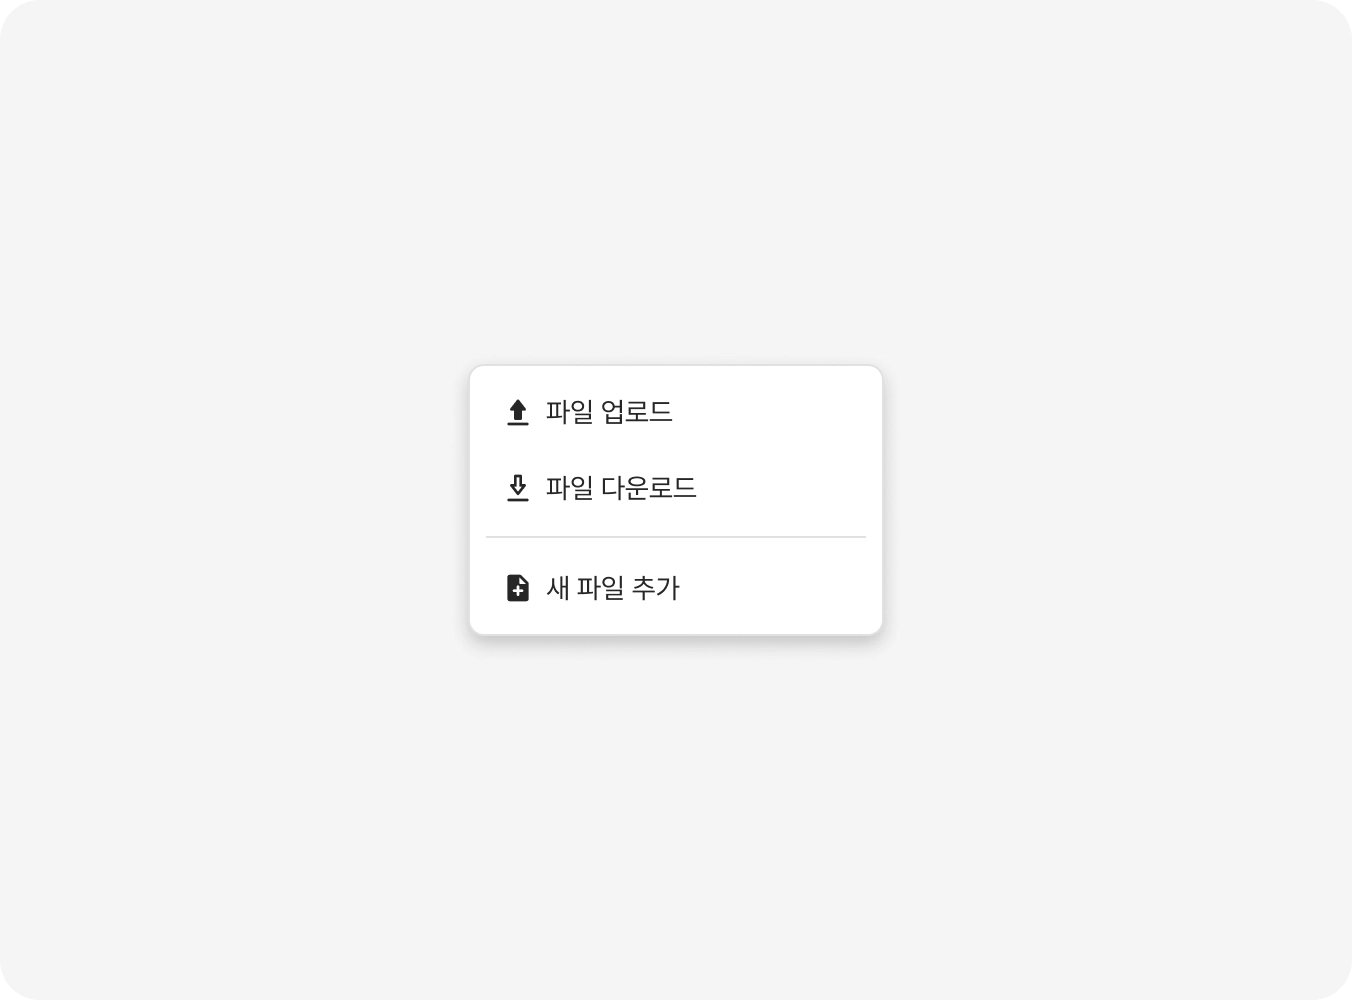
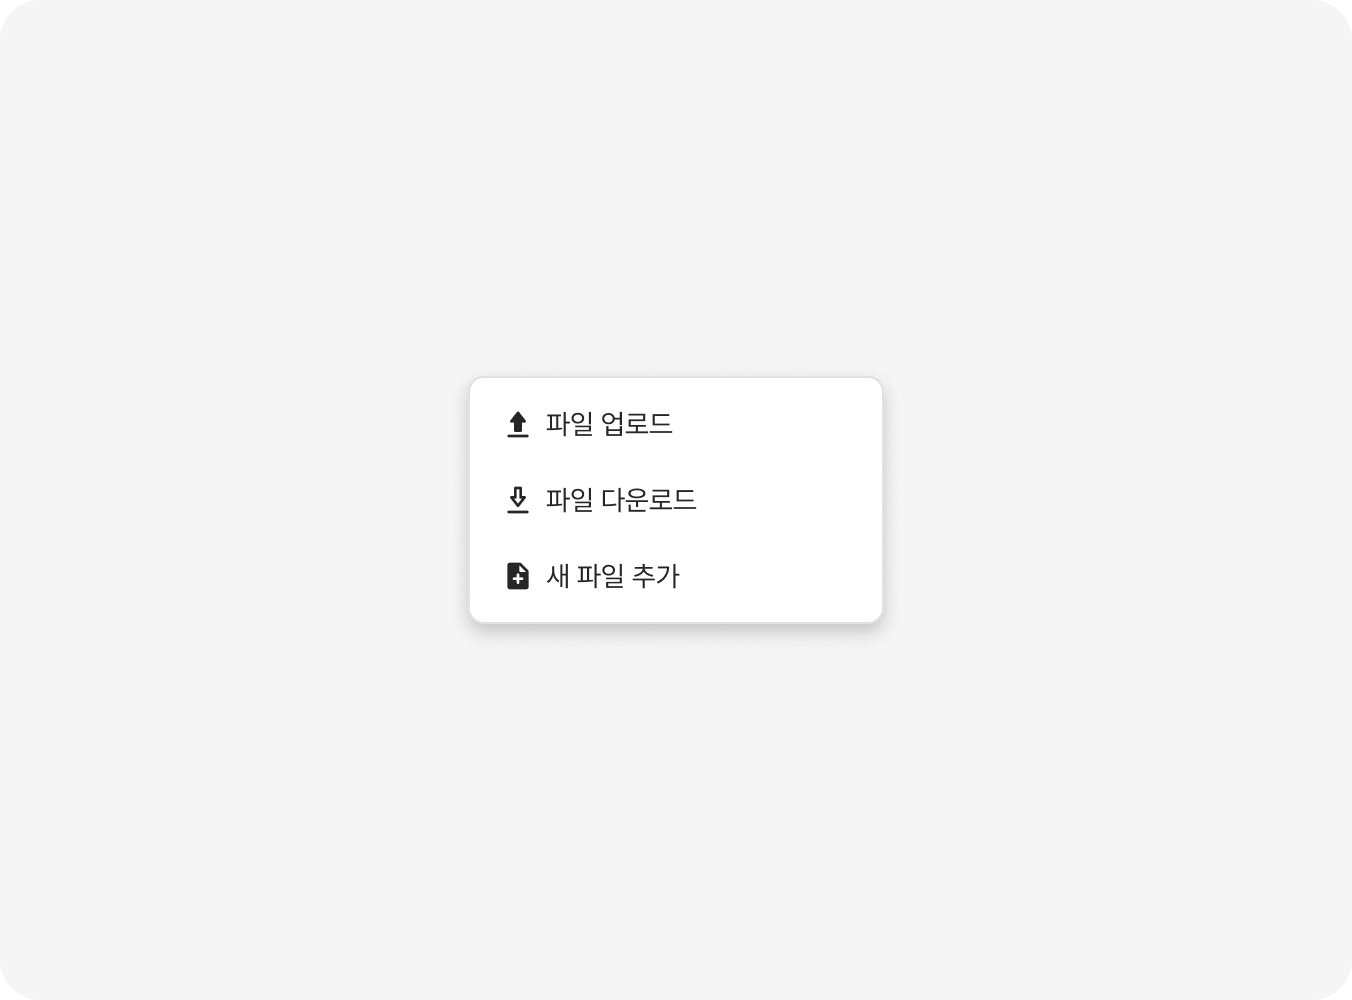
refactor(extract-composites): frontmatter, output path, demo refs (#809)

Changed region(s): [[0.3417, 0.558, 0.6524, 0.651], [0.3728, 0.465, 0.5281, 0.527], [0.3728, 0.372, 0.497, 0.434]]

diff --git a/scripts/extract-composites/src/extractor.ts b/scripts/extract-composites/src/extractor.ts
@@ -1,11 +1,14 @@
 import { kebabCase } from 'es-toolkit';
+import { join, relative } from 'node:path';
 
 import { extractPreview } from './code-connect.ts';
 import { FigmaClient } from './figma.ts';
 import { downloadWebpImages } from './images.ts';
 import {
+    HEADER_INSTANCE_NAME,
     SLOT_NAMES,
     TEXT_NAMES,
+    findComponentHeader,
     findExportFrame,
     findItems,
     findTextByName,
@@ -23,6 +26,7 @@ export interface ExtractOptions {
     contentFile: (slug: string) => string;
     publicDir: (slug: string) => string;
     componentDir: (slug: string) => string;
+    docsRoot: string;
     slugOverride?: string;
     clean: boolean;
     force: boolean;
@@ -35,6 +39,7 @@ export interface ExtractResult {
     mdxPath: string;
     publicDir: string;
     componentDir: string;
+    demoFiles: string[];
     warnings: string[];
 }
 
@@ -56,6 +61,12 @@ export async function extract(opts: ExtractOptions): Promise<ExtractResult> {
     const componentDir = opts.componentDir(slug);
     await prepareOutputs(contentFile, publicDir, opts.clean);
 
+    const { title: docTitle, description: docDescription } = resolveComponentMeta(
+        canvas,
+        canvasName,
+        warnings,
+    );
+
     const discovered = discoverSections(canvas, warnings, only);
 
     console.log(`발견된 섹션: ${discovered.length}개`);
@@ -63,6 +74,7 @@ export async function extract(opts: ExtractOptions): Promise<ExtractResult> {
 
     console.log('내용을 분석하고 있습니다...\n');
 
+    const demoFiles: string[] = [];
     const sections: Section[] = [];
     for (const { title, frame } of discovered) {
         const slugForSection = SECTION_SLUG[title];
@@ -97,14 +109,18 @@ export async function extract(opts: ExtractOptions): Promise<ExtractResult> {
                     if (rel) blocks.push({ kind: 'docsImage', webpRel: rel, alt: currentSubtitle });
                     else warnings.push(`sample export failed: ${targetNode.id} (${baseName})`);
                 } else if (child.kind === 'preview') {
+                    const absDemoFile = join(componentDir, 'demos', `${baseName}.tsx`);
+                    const demoRef = relative(opts.docsRoot, absDemoFile);
                     const result = await extractPreview({
                         fileKey: opts.fileKey,
                         previewSlot: child.node,
                         componentDir,
                         baseName,
+                        demoRef,
                         force: opts.force,
                         warnings,
                     });
+                    demoFiles.push(absDemoFile);
                     blocks.push({
                         kind: 'demo',
                         file: result.file,
@@ -142,7 +158,8 @@ export async function extract(opts: ExtractOptions): Promise<ExtractResult> {
 
     const mdx = renderMdx({
         slug,
-        name: canvasName,
+        title: docTitle,
+        description: docDescription,
         sections: sortedSections,
     });
     await writeComponentMdx(contentFile, mdx);
@@ -155,8 +172,29 @@ export async function extract(opts: ExtractOptions): Promise<ExtractResult> {
         mdxPath: contentFile,
         publicDir,
         componentDir,
+        demoFiles,
         warnings,
     };
+}
+
+function resolveComponentMeta(
+    canvas: FigmaNode,
+    canvasName: string,
+    warnings: string[],
+): { title: string; description: string } {
+    const header = findComponentHeader(canvas);
+    if (!header) {
+        warnings.push(
+            `${HEADER_INSTANCE_NAME} INSTANCE (type=component) missing — frontmatter falls back to canvas name`,
+        );
+        return { title: canvasName, description: '' };
+    }
+    const title = findTextByName(header, TEXT_NAMES.componentName) ?? canvasName;
+    const description = findTextByName(header, TEXT_NAMES.componentDescription) ?? '';
+    if (!description) {
+        warnings.push(`${HEADER_INSTANCE_NAME}: "${TEXT_NAMES.componentDescription}" TEXT missing`);
+    }
+    return { title, description };
 }
 
 interface BuildCaseBlockOptions {

diff --git a/scripts/extract-composites/src/code-connect.ts b/scripts/extract-composites/src/code-connect.ts
@@ -6,7 +6,7 @@ import { fetchCodeConnectSnippet } from './claude-cli.ts';
 import type { FigmaNode } from './types.ts';
 
 export interface PreviewResult {
-    file: string; // relative to the component docs dir (e.g. "demos/examples-01.tsx")
+    file: string; // docs-root-relative path for <Demo file=""> (e.g. "composites/(components)/alert-dialog/demos/examples-01.tsx")
     placeholder: boolean;
     nodeId: string;
 }
@@ -16,6 +16,7 @@ export interface ExtractPreviewOptions {
     previewSlot: FigmaNode;
     componentDir: string; // apps/website/content/docs/composites/(components)/<slug>
     baseName: string; // e.g. "examples-01"
+    demoRef: string; // what goes into `<Demo file="…" />` — docs-root-relative, with .tsx extension
     force: boolean;
     warnings: string[];
 }
@@ -35,19 +36,18 @@ export interface ExtractPreviewOptions {
  * and extracts the JSX inside the `<CodeConnectSnippet>` tag.
  */
 export async function extractPreview(opts: ExtractPreviewOptions): Promise<PreviewResult> {
-    const { fileKey, previewSlot, componentDir, baseName, force, warnings } = opts;
-    const relFile = join('demos', `${baseName}.tsx`);
-    const absFile = join(componentDir, relFile);
+    const { fileKey, previewSlot, componentDir, baseName, demoRef, force, warnings } = opts;
+    const absFile = join(componentDir, 'demos', `${baseName}.tsx`);
 
     const instance = findFirstInstance(previewSlot);
     if (!instance) {
         warnings.push(`preview slot has no component instance: ${previewSlot.id}`);
         await writePlaceholder(absFile, baseName, previewSlot.id, 'no instance', force);
-        return { file: relFile, placeholder: true, nodeId: previewSlot.id };
+        return { file: demoRef, placeholder: true, nodeId: previewSlot.id };
     }
 
     if (!force && (await exists(absFile))) {
-        return { file: relFile, placeholder: false, nodeId: instance.id };
+        return { file: demoRef, placeholder: false, nodeId: instance.id };
     }
 
     const result = await fetchCodeConnectSnippet(fileKey, instance.id);
@@ -56,13 +56,13 @@ export async function extractPreview(opts: ExtractPreviewOptions): Promise<Previ
             `Code Connect missing for instance ${instance.name} (${instance.id}); placeholder written`,
         );
         await writePlaceholder(absFile, baseName, instance.id, 'unregistered', force);
-        return { file: relFile, placeholder: true, nodeId: instance.id };
+        return { file: demoRef, placeholder: true, nodeId: instance.id };
     }
 
     const content = renderDemo(result.componentName, result.snippet);
     await mkdir(dirname(absFile), { recursive: true });
     await writeFile(absFile, content, 'utf8');
-    return { file: relFile, placeholder: false, nodeId: instance.id };
+    return { file: demoRef, placeholder: false, nodeId: instance.id };
 }
 
 function renderDemo(componentName: string, snippet: string): string {

diff --git a/scripts/extract-composites/src/cli.ts b/scripts/extract-composites/src/cli.ts
@@ -1,7 +1,7 @@
 #!/usr/bin/env tsx
 import { config as loadEnv } from 'dotenv';
 import meow from 'meow';
-import { execSync } from 'node:child_process';
+import { execFileSync, execSync } from 'node:child_process';
 import { dirname, resolve } from 'node:path';
 
 import { extract } from './extractor.ts';
@@ -30,7 +30,8 @@ if (!process.env.FIGMA_TOKEN && MAIN_REPO_ROOT !== REPO_ROOT) {
     loadEnv({ path: resolve(MAIN_REPO_ROOT, '.env') });
 }
 
-const CONTENT_ROOT = resolve(REPO_ROOT, 'apps/website/content/docs/composites/(components)');
+const DOCS_ROOT = resolve(REPO_ROOT, 'apps/website/content/docs');
+const CONTENT_ROOT = resolve(DOCS_ROOT, 'composites/(components)');
 const PUBLIC_ROOT = resolve(REPO_ROOT, 'apps/website/public/composites');
 
 const cli = meow(
@@ -45,7 +46,7 @@ const cli = meow(
       --force         Overwrite existing demos/*.tsx files
 
     Output
-      MDX   apps/website/content/docs/composites/(components)/<slug>.mdx
+      MDX   apps/website/content/docs/composites/(components)/<slug>/index.mdx
       TSX   apps/website/content/docs/composites/(components)/<slug>/demos/<section>-<idx>.tsx
       Img   apps/website/public/composites/<slug>/images/<section>-<idx>.webp
 
@@ -82,9 +83,10 @@ const only = parseOnly(cli.flags.only);
 const result = await extract({
     fileKey,
     nodeId,
-    contentFile: (slug) => resolve(CONTENT_ROOT, `${slug}.mdx`),
+    contentFile: (slug) => resolve(CONTENT_ROOT, slug, 'index.mdx'),
     publicDir: (slug) => resolve(PUBLIC_ROOT, slug),
     componentDir: (slug) => resolve(CONTENT_ROOT, slug),
+    docsRoot: DOCS_ROOT,
     slugOverride: cli.flags.slug,
     clean: cli.flags.clean,
     force: cli.flags.force,
@@ -92,7 +94,27 @@ const result = await extract({
     token,
 });
 
+runFormat([result.mdxPath, ...result.demoFiles]);
+
 for (const w of result.warnings) console.log(`⚠ ${w}`);
+
+function runFormat(files: string[]): void {
+    if (files.length === 0) return;
+    console.log(`\nprettier --write ${files.length}개 파일을 포매팅합니다...`);
+    try {
+        // Node's execFile cannot launch a `.cmd` shim directly, so point at
+        // the Windows pnpm entrypoint when running there.
+        const pnpmCmd = process.platform === 'win32' ? 'pnpm.cmd' : 'pnpm';
+        execFileSync(pnpmCmd, ['-w', 'exec', 'prettier', '--write', ...files], {
+            cwd: REPO_ROOT,
+            stdio: 'inherit',
+        });
+    } catch (err) {
+        console.warn(`\n⚠ prettier 포매팅을 완료하지 못했습니다: ${(err as Error).message}`);
+        console.warn('   생성된 파일은 그대로 보존됩니다. 필요하면 수동으로 포매팅하세요.');
+        process.exitCode = 1;
+    }
+}
 
 function parseOnly(raw: string | undefined): SectionTitle[] | undefined {
     if (!raw) return undefined;

diff --git a/scripts/extract-composites/src/items.ts b/scripts/extract-composites/src/items.ts
@@ -20,7 +20,43 @@ export const TEXT_NAMES = {
     subtitle: 'section subtitle',
     body: 'body',
     caption: 'caption',
+    componentName: 'component name',
+    componentDescription: 'component description',
 } as const;
+
+export const HEADER_INSTANCE_NAME = 'Component guide/Header';
+export const HEADER_TYPE_PROP = 'type';
+export const HEADER_TYPE_COMPONENT_VALUE = 'component';
+
+/** DFS canvas for the `Component guide/Header` INSTANCE whose `type` variant is `component`.
+ *  Figma suffixes variant prop keys with `#<schemaId>`, so match by the segment before `#`. */
+export function findComponentHeader(canvas: FigmaNode): FigmaNode | undefined {
+    const walk = (n: FigmaNode): FigmaNode | undefined => {
+        for (const child of n.children ?? []) {
+            if (
+                child.type === 'INSTANCE' &&
+                child.name === HEADER_INSTANCE_NAME &&
+                hasTypeComponent(child)
+            ) {
+                return child;
+            }
+            const nested = walk(child);
+            if (nested) return nested;
+        }
+        return undefined;
+    };
+    return walk(canvas);
+}
+
+function hasTypeComponent(node: FigmaNode): boolean {
+    const props = node.componentProperties;
+    if (!props) return false;
+    for (const [key, prop] of Object.entries(props)) {
+        if (key.split('#')[0] !== HEADER_TYPE_PROP) continue;
+        if (prop.value === HEADER_TYPE_COMPONENT_VALUE) return true;
+    }
+    return false;
+}
 
 /** True when the node is an `Item` component instance.
  *  Matches exact `Item` and variant forms (`Item ...`, `Item, Prop=Val`, `Item=Val`). */

diff --git a/scripts/extract-composites/src/writer.ts b/scripts/extract-composites/src/writer.ts
@@ -5,7 +5,8 @@ import type { Item, ItemBlock, Section } from './types.ts';
 
 export interface RenderInput {
     slug: string;
-    name: string;
+    title: string;
+    description: string;
     sections: Section[];
 }
 
@@ -39,8 +40,17 @@ export function renderMdx(input: RenderInput): string {
 }
 
 function renderFrontmatter(input: RenderInput): string {
-    const esc = (s: string) => s.replace(/"/g, '\\"');
-    return ['---', `title: "${esc(input.name)}"`, `slug: "${esc(input.slug)}"`, '---'].join('\n');
+    // YAML double-quoted strings interpret `\x`, `\U`, `\n`, etc. as escapes,
+    // so backslashes must be doubled before quote escaping.
+    const esc = (s: string) => s.replace(/\\/g, '\\\\').replace(/"/g, '\\"');
+    const siteName = `${input.title} - Vapor Composites`;
+    return [
+        '---',
+        `title: "${esc(input.title)}"`,
+        `description: "${esc(input.description)}"`,
+        `site_name: "${esc(siteName)}"`,
+        '---',
+    ].join('\n');
 }
 
 function renderSection(section: Section, slug: string): string {
